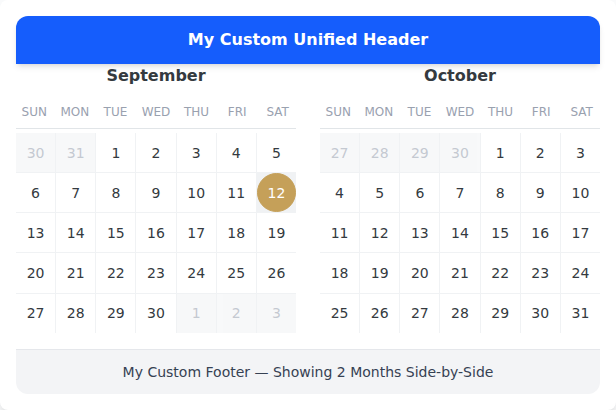
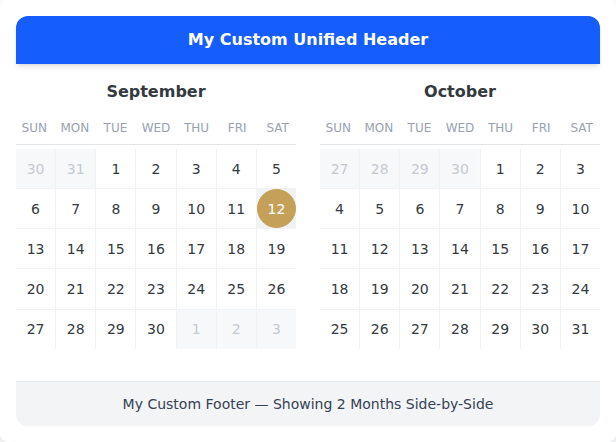
docs: update yearly layout, custom header spacing, and custom styling theme previews

diff --git a/examples/basic/app/styling/page.tsx b/examples/basic/app/styling/page.tsx
@@ -3,85 +3,78 @@ import { Calendar } from 'react-modular-datepicker';
 
 export default function StylingPage() {
   return (
-    <div className="p-8 bg-slate-950 min-h-screen text-slate-100">
-      <h1 className="text-3xl font-extrabold text-white mb-2 tracking-tight">Custom Styling Showcase</h1>
-      <p className="text-slate-400 mb-8 text-sm">Demonstrating how easily <code className="bg-slate-800 px-1.5 py-0.5 rounded text-amber-300">classNames</code> overrides allow building completely distinct, high-quality themes.</p>
+    <div className="p-4 bg-white text-gray-900 min-h-screen">
+      <h1 className="text-2xl font-bold mb-2">Custom Styling Showcase</h1>
+      <p className="text-gray-600 mb-6 text-sm">
+        Demonstrating custom themes built using the <code className="bg-gray-100 px-1 py-0.5 rounded text-amber-700 font-mono">classNames</code> prop to customize layout, typography, borders, and shape.
+      </p>
 
       <div className="flex flex-wrap gap-8 items-start justify-center">
-        {/* Theme 1: Cyber Neon Dark */}
-        <section data-testid="neon-theme" className="flex flex-col items-center">
-          <h2 className="text-xs font-bold text-cyan-400 uppercase tracking-widest mb-4 flex items-center gap-2">
-            <span className="w-2 h-2 rounded-full bg-cyan-400 animate-pulse"></span>
-            Cyber Neon Dark
-          </h2>
+        {/* Theme 1: Sharp Monospace Tech */}
+        <div data-testid="neon-theme">
           <Calendar
             classNames={{
-              root: 'bg-slate-900/90 backdrop-blur-xl p-6 rounded-2xl border border-cyan-500/30 shadow-[0_0_30px_rgba(6,182,212,0.15)] text-slate-200',
-              header: 'flex items-center justify-between pb-4 border-b border-cyan-500/20 mb-4',
-              monthYearLabel: 'flex gap-2 items-center font-bold text-cyan-300 text-base tracking-wide',
-              monthYearButton: 'hover:bg-cyan-950/60 px-2.5 py-1 rounded-lg transition-colors text-cyan-300',
-              weekday: 'text-slate-500 font-semibold text-xs uppercase tracking-wider',
+              root: 'bg-black p-5 border-2 border-cyan-400 font-mono text-cyan-400 shadow-[4px_4px_0px_0px_rgba(6,182,212,1)] rounded-none',
+              calendarContainer: 'min-h-0 flex flex-col',
+              header: 'flex items-center justify-between pb-3 border-b-2 border-cyan-400 mb-3',
+              monthYearLabel: 'flex gap-2 items-center font-bold text-sm tracking-widest uppercase',
+              monthYearButton: 'hover:bg-cyan-950 px-2 py-0.5 border border-cyan-400/50 rounded-none transition-colors text-cyan-300 text-xs',
+              weekday: 'text-cyan-600 font-bold text-xs uppercase',
               day: {
-                day: 'rounded-xl transition-all font-medium text-slate-300',
-                unselected: 'hover:bg-cyan-500/10 hover:text-cyan-300 hover:shadow-[0_0_10px_rgba(6,182,212,0.3)]',
-                selected: 'bg-cyan-500 text-slate-950 font-bold shadow-[0_0_15px_rgba(6,182,212,0.8)] scale-105',
-                today: 'text-cyan-400 font-bold ring-1 ring-cyan-400/60',
-                outside: 'text-slate-700',
+                day: 'rounded-none border border-transparent font-bold text-xs transition-colors',
+                unselected: 'hover:border-cyan-400 hover:bg-cyan-950/80 text-cyan-300',
+                selected: 'bg-cyan-400 text-black font-black border-2 border-cyan-300 scale-100',
+                today: 'text-yellow-400 font-extrabold border-b-2 border-yellow-400',
+                outside: 'text-cyan-900 opacity-40',
               },
-              navButton: 'p-2 hover:bg-cyan-950/60 rounded-xl border border-cyan-500/30 text-cyan-400 transition-all hover:scale-110 active:scale-95'
+              navButton: 'p-1 hover:bg-cyan-400 hover:text-black border border-cyan-400 text-cyan-400 transition-colors rounded-none'
             }}
           />
-        </section>
+        </div>
 
-        {/* Theme 2: Violet Sunset Glass */}
-        <section data-testid="violet-theme" className="flex flex-col items-center">
-          <h2 className="text-xs font-bold text-pink-400 uppercase tracking-widest mb-4 flex items-center gap-2">
-            <span className="w-2 h-2 rounded-full bg-pink-400"></span>
-            Violet Sunset Glass
-          </h2>
+        {/* Theme 2: Soft Floating Glass Card */}
+        <div data-testid="violet-theme">
           <Calendar
             classNames={{
-              root: 'bg-gradient-to-br from-purple-900/80 via-slate-900 to-indigo-950 p-6 rounded-3xl border border-purple-500/30 shadow-2xl shadow-purple-900/30 text-purple-100',
-              header: 'flex items-center justify-between mb-6',
-              monthYearLabel: 'flex gap-2 items-center font-black text-transparent bg-clip-text bg-gradient-to-r from-pink-300 to-purple-200 text-lg',
-              monthYearButton: 'hover:bg-purple-800/40 px-3 py-1.5 rounded-xl transition-colors',
-              weekday: 'text-purple-400/80 font-bold text-xs uppercase tracking-widest',
+              root: 'bg-gradient-to-br from-indigo-900 via-purple-900 to-slate-900 p-6 rounded-3xl border border-purple-400/20 shadow-xl shadow-purple-950/20 text-purple-100',
+              calendarContainer: 'min-h-0 flex flex-col',
+              header: 'flex items-center justify-between mb-4',
+              monthYearLabel: 'flex gap-2 items-center font-extrabold text-transparent bg-clip-text bg-gradient-to-r from-pink-300 to-purple-200 text-base',
+              monthYearButton: 'hover:bg-purple-800/40 px-3 py-1 rounded-full transition-colors text-purple-200',
+              weekday: 'text-purple-400/80 font-semibold text-xs tracking-wider uppercase',
               day: {
                 day: 'rounded-full transition-all duration-200 font-semibold text-purple-200',
                 unselected: 'hover:bg-purple-500/20 hover:text-white',
-                selected: 'bg-gradient-to-r from-pink-500 to-purple-600 text-white shadow-lg shadow-pink-500/40 scale-110',
-                today: 'text-pink-400 ring-2 ring-pink-400 ring-offset-2 ring-offset-purple-950',
-                outside: 'text-purple-900/60',
+                selected: 'bg-gradient-to-r from-pink-500 to-purple-600 text-white shadow-md shadow-pink-500/30 scale-105',
+                today: 'text-pink-300 ring-2 ring-pink-400 ring-offset-2 ring-offset-purple-950',
+                outside: 'text-purple-950 opacity-40',
               },
-              navButton: 'p-2.5 hover:bg-purple-800/40 rounded-2xl border border-purple-500/20 text-purple-300 transition-all hover:text-white hover:scale-105'
+              navButton: 'p-2 hover:bg-purple-800/40 rounded-full text-purple-300 transition-transform hover:scale-110'
             }}
           />
-        </section>
+        </div>
 
-        {/* Theme 3: Emerald Minimal */}
-        <section data-testid="emerald-theme" className="flex flex-col items-center">
-          <h2 className="text-xs font-bold text-emerald-400 uppercase tracking-widest mb-4 flex items-center gap-2">
-            <span className="w-2 h-2 rounded-full bg-emerald-400"></span>
-            Soft Emerald Light
-          </h2>
+        {/* Theme 3: Minimalist Modern */}
+        <div data-testid="emerald-theme">
           <Calendar
             classNames={{
-              root: 'bg-white p-6 rounded-3xl shadow-xl shadow-slate-900/20 text-slate-800 border border-slate-100',
-              header: 'flex items-center justify-between mb-6',
-              monthYearLabel: 'flex gap-2 items-center font-bold text-slate-900 text-lg',
-              monthYearButton: 'hover:bg-slate-100 px-3 py-1.5 rounded-xl transition-colors',
-              weekday: 'text-slate-400 font-medium text-xs uppercase tracking-tighter',
+              root: 'bg-transparent p-4 text-slate-800',
+              calendarContainer: 'min-h-0 flex flex-col',
+              header: 'flex items-center justify-between mb-3 border-b border-slate-200 pb-2',
+              monthYearLabel: 'flex gap-2 items-center font-light text-slate-900 text-base tracking-tight',
+              monthYearButton: 'hover:bg-slate-100 px-2 py-0.5 rounded transition-colors text-slate-700',
+              weekday: 'text-slate-400 font-normal text-xs uppercase',
               day: {
-                day: 'rounded-2xl transition-all duration-200 font-medium text-slate-700',
+                day: 'rounded transition-colors font-normal text-slate-700 text-sm',
                 unselected: 'hover:bg-emerald-50 hover:text-emerald-700',
-                selected: 'bg-emerald-600 text-white shadow-lg shadow-emerald-200 scale-105 z-10',
-                today: 'text-emerald-600 font-bold underline decoration-2 underline-offset-4',
+                selected: 'bg-emerald-700 text-white font-medium rounded-full',
+                today: 'text-emerald-700 font-bold underline underline-offset-4 decoration-2',
                 outside: 'text-slate-300',
               },
-              navButton: 'p-2.5 hover:bg-slate-100 rounded-2xl text-slate-500 transition-all hover:text-slate-900 hover:scale-105'
+              navButton: 'p-1.5 hover:bg-slate-100 rounded text-slate-400 hover:text-slate-800 transition-colors'
             }}
           />
-        </section>
+        </div>
       </div>
     </div>
   );

diff --git a/examples/basic/app/yearly/page.tsx b/examples/basic/app/yearly/page.tsx
@@ -4,23 +4,25 @@ import { Calendar } from 'react-modular-datepicker';
 
 export default function YearlyPage() {
   const [selected, setSelected] = useState<Date | null>(new Date());
+  const janFirst = new Date(new Date().getFullYear(), 0, 1);
 
   return (
     <div>
       <h1 className="text-2xl font-bold mb-4">Yearly View</h1>
       <p className="mb-4 text-gray-600">
-        Displays an entire year at once. Configured to show a maximum of 3 months per row.
+        Displays an entire year at once. Configured to show 4 months per row from January to December.
       </p>
 
-      {/* Container with a larger max-width to accommodate 3 calendars side-by-side */}
-      <div className="max-w-[1000px]">
+      {/* Container with a larger max-width to accommodate 4 calendars side-by-side */}
+      <div className="max-w-[1200px]">
         <Calendar
+          date={janFirst}
           selected={selected}
           onChange={(val) => setSelected(val as Date)}
           monthsToDisplay={12}
           classNames={{
-            // Override the default flex layout with a grid layout that wraps at 3 columns
-            calendarsContainer: "grid grid-cols-1 md:grid-cols-2 lg:grid-cols-3 gap-6"
+            // Override the default flex layout with a grid layout that wraps at 4 columns
+            calendarsContainer: "grid grid-cols-1 sm:grid-cols-2 lg:grid-cols-4 gap-6"
           }}
         />
       </div>

diff --git a/examples/basic/app/custom-header-footer/page.tsx b/examples/basic/app/custom-header-footer/page.tsx
@@ -14,8 +14,8 @@ export default function CustomHeaderFooterPage() {
         classNames={{
           calendarsContainer: "flex flex-row gap-6"
         }}
-        header={<div className="p-3 bg-blue-600 text-white font-bold text-center rounded-t-xl shadow-md">My Custom Unified Header</div>}
-        footer={<div className="p-3 bg-gray-100 text-gray-700 text-sm font-medium text-center rounded-b-xl border-t border-gray-200">My Custom Footer — Showing 2 Months Side-by-Side</div>}
+        header={<div className="p-3 mb-4 bg-blue-600 text-white font-bold text-center rounded-t-xl shadow-md">My Custom Unified Header</div>}
+        footer={<div className="p-3 mt-4 bg-gray-100 text-gray-700 text-sm font-medium text-center rounded-b-xl border-t border-gray-200">My Custom Footer — Showing 2 Months Side-by-Side</div>}
         renderDayTooltip={(dateObj) => (
             dateObj.date.getDate() === 15 ? 'Middle of the month!' : null
         )}
